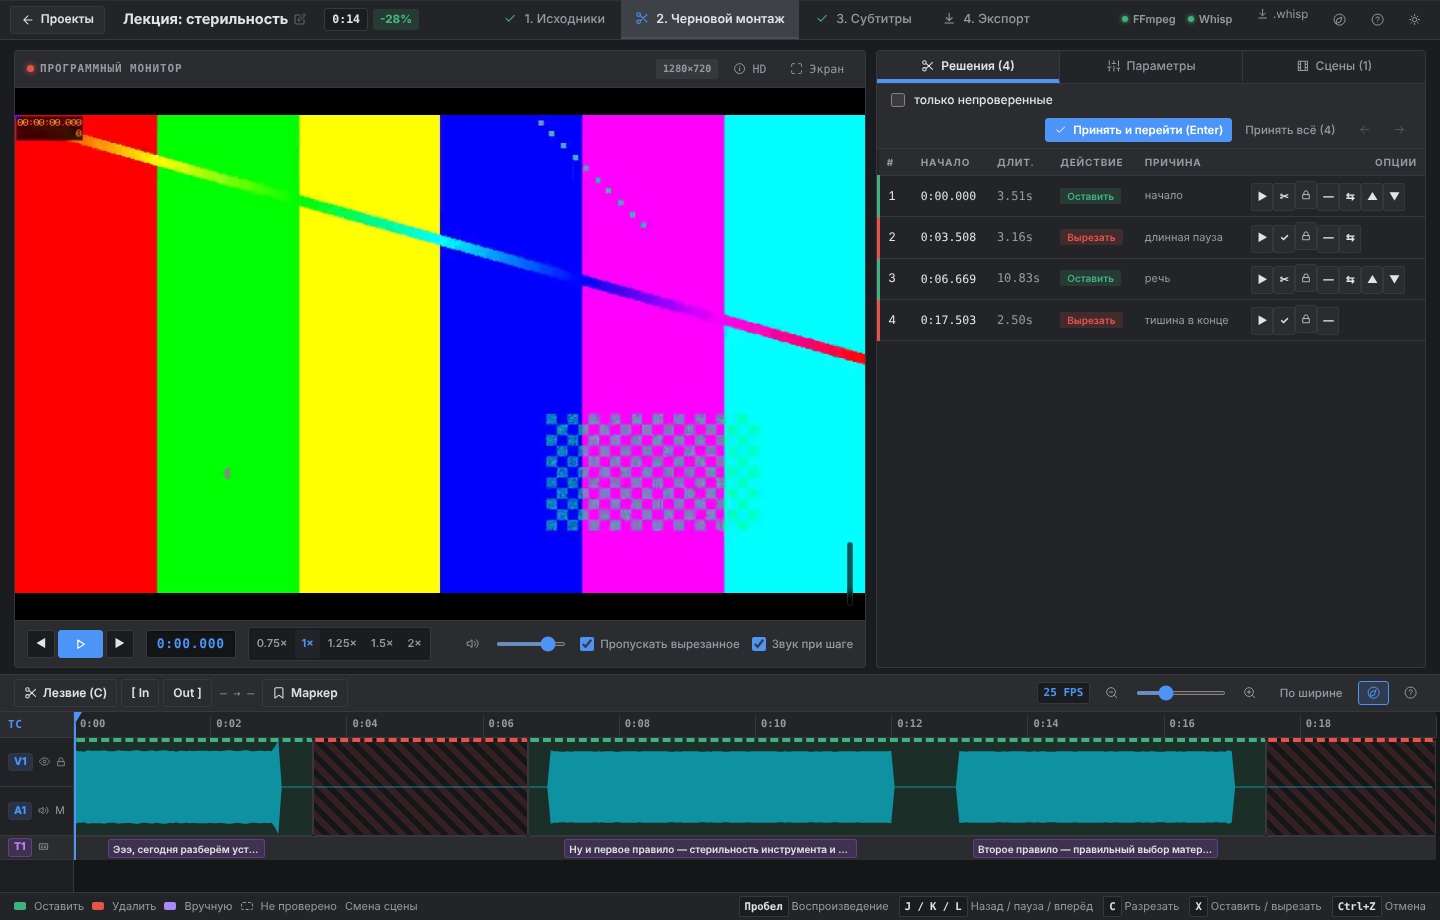
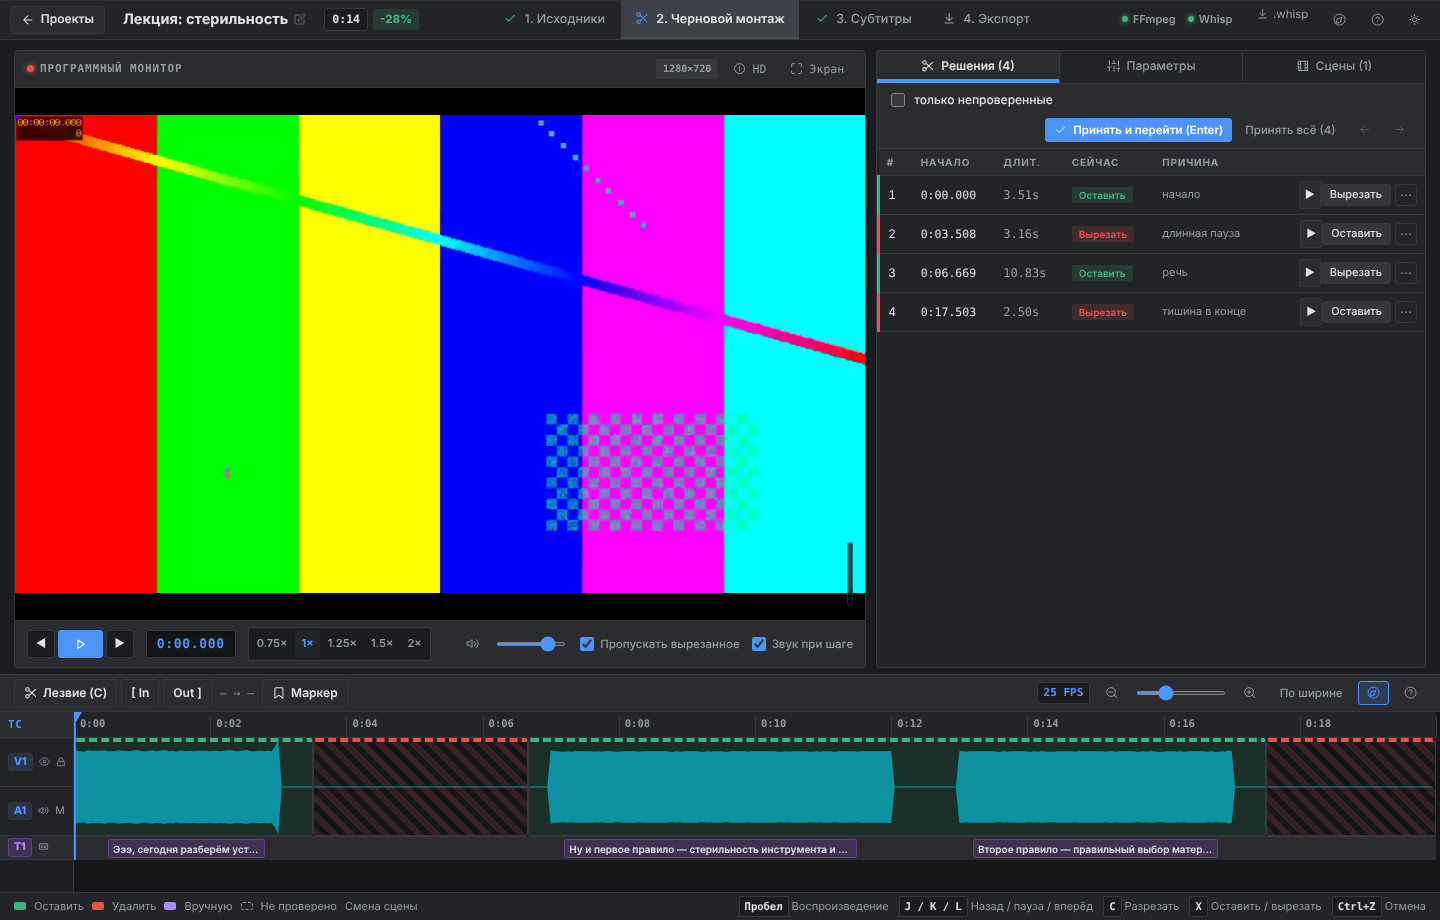
UI: проще и понятнее: экспорт с одной главной кнопкой, одна модель Whisp на виду, строки решений с подписанной кнопкой и меню «…»
Claude-Session: https://claude.ai/code/session_01DF561mnDsFx3onGChxrfzS

diff --git a/frontend/src/components/ExportPanel.tsx b/frontend/src/components/ExportPanel.tsx
@@ -280,7 +280,7 @@ export default function ExportPanel({ pid, project, payload, busy, onJob, onPayl
         <section className="card">
           <div className="card-title">
             <span className="num"><Icon name="film" /></span>
-            <h2>{t("export.render_mp4")}</h2>
+            <h2>{lang === "ru" ? "Готовое видео" : "Final video"}</h2>
           </div>
           <p className="muted">
             {lang === "ru"
@@ -293,36 +293,10 @@ export default function ExportPanel({ pid, project, payload, busy, onJob, onPayl
             )}
           </p>
 
-          <div className="row wrap" style={{ gap: 8, alignItems: "center" }}>
-            <button className="primary big" onClick={() => render("final")} disabled={busy}>
-              <Icon name="film" /> {t("export.btn_render_final")}
-            </button>
-            <button className="big" onClick={() => render("fast")} disabled={busy} title="480p preview render">
-              {t("export.btn_render_fast")}
-            </button>
-            <button
-              className="big ghost"
-              onClick={() => setShowNotesOpen(true)}
-              style={{ display: "inline-flex", alignItems: "center", gap: 6 }}
-              title={lang === "ru" ? "Сгенерировать шоу-ноуты, описание для YouTube и пост для Telegram" : "Show notes & publishing text"}
-            >
-              <Icon name="captions" /> {lang === "ru" ? "Шоу-ноуты" : "Show Notes"}
-            </button>
-          </div>
-
-          <div style={{ marginTop: 10, display: "flex", alignItems: "center", gap: 8 }}>
-            <label className="check" style={{ cursor: "pointer", display: "inline-flex", alignItems: "center", gap: 6 }}>
-              <input type="checkbox" checked={lossless} onChange={(e) => setLossless(e.target.checked)} />
-              <span style={{ fontWeight: 500, fontSize: 13 }}>
-                {lang === "ru" ? "Lossless экспорт (Stream Copy) — мгновенно за 2–3 сек без перекодирования" : "Lossless Export (Stream Copy) — instant 2–3s without re-encoding"}
-              </span>
-            </label>
-          </div>
-
           {/* Пресеты экспорта в 1 клик */}
           <div style={{ marginTop: 14, marginBottom: 10 }}>
             <span className="muted small" style={{ display: "block", marginBottom: 8, fontWeight: 500 }}>
-              {lang === "ru" ? "Готовые пресеты для соцсетей и стримингов:" : "1-Click Export Presets:"}
+              {lang === "ru" ? "Куда публикуете? Выберите — настройки подставятся сами:" : "Where to publish? Pick one to fill in the settings:"}
             </span>
             <div style={{ display: "grid", gridTemplateColumns: "repeat(auto-fit, minmax(130px, 1fr))", gap: 8 }}>
               <button
@@ -376,9 +350,35 @@ export default function ExportPanel({ pid, project, payload, busy, onJob, onPayl
             </div>
           </div>
 
+          <div className="export-main">
+            <button className="primary big" onClick={() => render("final")} disabled={busy}>
+              <Icon name="film" /> {lang === "ru" ? "Собрать видео" : "Render video"}
+            </button>
+            <button className="ghost" onClick={() => render("fast")} disabled={busy} title="480p">
+              {lang === "ru" ? "Быстрый тест (480p)" : "Quick test (480p)"}
+            </button>
+          </div>
           {error && <p className="error">{error}</p>}
           {msg && <p className="ok">{msg}</p>}
 
+          <details className="more">
+            <summary>{lang === "ru" ? "Дополнительно: качество, звук, субтитры" : "More: quality, audio, captions"}</summary>
+          <div style={{ marginTop: 10, display: "flex", alignItems: "center", gap: 8 }}>
+            <label className="check" style={{ cursor: "pointer", display: "inline-flex", alignItems: "center", gap: 6 }}>
+              <input type="checkbox" checked={lossless} onChange={(e) => setLossless(e.target.checked)} />
+              <span style={{ fontWeight: 500, fontSize: 13 }}>
+                {lang === "ru" ? "Lossless экспорт (Stream Copy) — мгновенно за 2–3 сек без перекодирования" : "Lossless Export (Stream Copy) — instant 2–3s without re-encoding"}
+              </span>
+            </label>
+          </div>
+
+            <button
+              className="ghost"
+              onClick={() => setShowNotesOpen(true)}
+              title={lang === "ru" ? "Сгенерировать шоу-ноуты, описание для YouTube и пост для Telegram" : "Show notes & publishing text"}
+            >
+              <Icon name="captions" /> {lang === "ru" ? "Шоу-ноуты и описание для публикации" : "Show Notes"}
+            </button>
           <div className="rset">
             <div className="ptabs" role="tablist">
               <button role="tab" aria-selected={rset === "video"} className={rset === "video" ? "active" : ""} onClick={() => setRset("video")}>{lang === "ru" ? "Видео" : "Video"}</button>
@@ -593,6 +593,7 @@ export default function ExportPanel({ pid, project, payload, busy, onJob, onPayl
             </>)}
             </div>
           </div>
+          </details>
         </section>
 
         {/* Экспортированные файлы */}
@@ -690,11 +691,7 @@ export default function ExportPanel({ pid, project, payload, busy, onJob, onPayl
           </div>
 
           {/* Инструкция по импорту файлов в NLE */}
-          <div className="nle-help-box">
-            <b style={{ display: "flex", alignItems: "center", gap: 8, fontSize: 13.5 }}>
-              <Icon name="lightbulb" style={{ color: "var(--accent)" }} />
-              {t("export.nle_help.title")}
-            </b>
+          <details className="more nle-help-box"><summary>{t("export.nle_help.title")}</summary>
             <div className="nle-help-grid">
               <div className="nle-help-item">
                 <b>Adobe Premiere Pro</b>
@@ -709,7 +706,7 @@ export default function ExportPanel({ pid, project, payload, busy, onJob, onPayl
                 <p>{t("export.nle_help.fcpx")}</p>
               </div>
             </div>
-          </div>
+          </details>
 
           <details className="more" style={{ marginTop: 8 }}>
             <summary>{lang === "ru" ? "Выбрать отдельные форматы для экспорта" : "Customize Export Formats"}</summary>

diff --git a/frontend/src/components/Editor.tsx b/frontend/src/components/Editor.tsx
@@ -777,9 +777,9 @@ export default function Editor({ pid, project, payload, onPayload, scenes, wave,
                       <th style={{ width: 34 }}>#</th>
                       <th>{lang === "ru" ? "Начало" : "Start"}</th>
                       <th>{lang === "ru" ? "Длит." : "Dur."}</th>
-                      <th>{lang === "ru" ? "Действие" : "Action"}</th>
+                      <th>{lang === "ru" ? "Сейчас" : "Now"}</th>
                       <th>{lang === "ru" ? "Причина" : "Reason"}</th>
-                      <th style={{ textAlign: "right" }}>{lang === "ru" ? "Опции" : "Controls"}</th>
+                      <th style={{ textAlign: "right" }}> </th>
                     </tr>
                   </thead>
                   <tbody>
@@ -804,47 +804,36 @@ export default function Editor({ pid, project, payload, onPayload, scenes, wave,
                           </td>
                           <td className="reason-cell">{REASONS[s.reason] ?? s.reason}</td>
                           <td className="actions" onClick={(e) => e.stopPropagation()}>
-                            <button className="nle-btn-micro" title="Play" onClick={() => playRange(s.source_start_ms, s.source_end_ms)}>▶</button>
+                            <button className="nle-btn-micro" title={lang === "ru" ? "Прослушать" : "Play"} onClick={() => playRange(s.source_start_ms, s.source_end_ms)}>▶</button>
                             <button
-                              className="nle-btn-micro"
+                              className="nle-btn-text"
                               disabled={busy}
-                              title={s.action === "KEEP" ? (lang === "ru" ? "Вырезать" : "Cut") : (lang === "ru" ? "Оставить" : "Keep")}
                               onClick={() => run({ op: "set_action", id: s.id, action: s.action === "KEEP" ? "CUT" : "KEEP" })}
                             >
-                              {s.action === "KEEP" ? "✂" : "✓"}
+                              {s.action === "KEEP" ? (lang === "ru" ? "Вырезать" : "Cut") : (lang === "ru" ? "Оставить" : "Keep")}
                             </button>
-                            <button
-                              className="nle-btn-micro"
-                              disabled={busy}
-                              title={s.locked ? "Unlock" : "Lock"}
-                              onClick={() => run({ op: "lock", id: s.id, locked: !s.locked })}
-                            >
-                              <Icon name={s.locked ? "unlock" : "lock"} style={{ width: 10, height: 10 }} />
-                            </button>
-                            <button
-                              className="nle-btn-micro"
-                              disabled={busy}
-                              title="Reviewed toggle"
-                              onClick={() => run({ op: "review", ids: [s.id], reviewed: !s.reviewed })}
-                            >
-                              {s.reviewed ? "✓" : "—"}
-                            </button>
-                            {next && (
-                              <button
-                                className="nle-btn-micro"
-                                disabled={busy}
-                                title="Merge with next"
-                                onClick={() => run({ op: "merge", id: s.id, second_id: next.id, action: s.action })}
-                              >
-                                ⇆
-                              </button>
-                            )}
-                            {s.action === "KEEP" && (
-                              <>
-                                <button className="nle-btn-micro" disabled={busy} title="Move up" onClick={() => moveSequence(s.id, "up")}>▲</button>
-                                <button className="nle-btn-micro" disabled={busy} title="Move down" onClick={() => moveSequence(s.id, "down")}>▼</button>
-                              </>
-                            )}
+                            <details className="row-menu">
+                              <summary title={lang === "ru" ? "Ещё действия" : "More"}>⋯</summary>
+                              <div className="row-menu-pop">
+                                <button disabled={busy} onClick={() => run({ op: "lock", id: s.id, locked: !s.locked })}>
+                                  {s.locked ? (lang === "ru" ? "Разблокировать" : "Unlock") : (lang === "ru" ? "Защитить от изменений" : "Lock")}
+                                </button>
+                                <button disabled={busy} onClick={() => run({ op: "review", ids: [s.id], reviewed: !s.reviewed })}>
+                                  {s.reviewed ? (lang === "ru" ? "Снять отметку «проверено»" : "Unmark reviewed") : (lang === "ru" ? "Отметить проверенным" : "Mark reviewed")}
+                                </button>
+                                {next && (
+                                  <button disabled={busy} onClick={() => run({ op: "merge", id: s.id, second_id: next.id, action: s.action })}>
+                                    {lang === "ru" ? "Объединить со следующим" : "Merge with next"}
+                                  </button>
+                                )}
+                                {s.action === "KEEP" && (
+                                  <>
+                                    <button disabled={busy} onClick={() => moveSequence(s.id, "up")}>{lang === "ru" ? "Переместить выше" : "Move up"}</button>
+                                    <button disabled={busy} onClick={() => moveSequence(s.id, "down")}>{lang === "ru" ? "Переместить ниже" : "Move down"}</button>
+                                  </>
+                                )}
+                              </div>
+                            </details>
                           </td>
                         </tr>
                       );

diff --git a/frontend/src/styles.css b/frontend/src/styles.css
@@ -1744,3 +1744,29 @@ button.small { min-height: 24px; }
 .nle-inspector-tabs .nle-insp-tab:last-child { border-right: none; }
 .nle-inspector-tabs .nle-insp-tab:hover { background: var(--panel2); color: var(--text); }
 .nle-inspector-tabs .nle-insp-tab.active { background: var(--panel2); color: var(--text); font-weight: 600; border-bottom-color: var(--accent); }
+
+/* Экспорт: одна главная кнопка, остальное спрятано */
+.export-main { display: flex; align-items: center; gap: 10px; margin: 14px 0 10px; }
+.export-main .primary.big { min-width: 220px; height: 40px; font-size: 14px; }
+.nle-card p { display: none; }
+.nle-card { padding: 10px 12px; }
+.nle-grid { grid-template-columns: repeat(auto-fill, minmax(190px, 1fr)); gap: 8px; }
+details.nle-help-box { margin-top: 10px !important; padding: 0; }
+details.nle-help-box .nle-help-grid { padding: 8px 12px 12px; }
+details.more > .row, details.more > .check { margin-top: 8px; }
+
+/* Строка решения: прослушать, вырезать/оставить текстом, остальное в меню «…» */
+.nle-btn-text { height: 22px; min-height: 22px; padding: 0 8px; font-size: 11px; border: 1px solid var(--line); background: var(--raised); color: var(--text); border-radius: 3px; }
+.nle-btn-text:hover { border-color: var(--accent); }
+td.actions { white-space: nowrap; text-align: right; }
+td.actions > * { vertical-align: middle; }
+.row-menu { position: relative; display: inline-block; margin-left: 4px; }
+.row-menu > summary { list-style: none; cursor: pointer; width: 22px; height: 22px; line-height: 20px; text-align: center; border-radius: 3px; border: 1px solid var(--line); color: var(--muted); user-select: none; }
+.row-menu > summary::-webkit-details-marker { display: none; }
+.row-menu[open] > summary, .row-menu > summary:hover { color: var(--text); background: var(--raised); }
+.row-menu-pop { position: absolute; right: 0; top: 26px; z-index: 20; min-width: 190px; background: var(--panel2); border: 1px solid var(--line); border-radius: 4px; padding: 4px; display: flex; flex-direction: column; box-shadow: 0 6px 20px rgba(0,0,0,.35); }
+.row-menu-pop button { height: 28px; text-align: left; border: none; background: none; color: var(--text); padding: 0 10px; border-radius: 3px; }
+.row-menu-pop button:hover { background: var(--raised); }
+.nle-grid { grid-template-columns: repeat(auto-fill, minmax(260px, 1fr)); }
+.nle-head b { font-size: 13px; white-space: nowrap; }
+.nle-head .badge { white-space: nowrap; }

diff --git a/frontend/src/components/SubtitlesPanel.tsx b/frontend/src/components/SubtitlesPanel.tsx
@@ -613,7 +613,13 @@ export default function SubtitlesPanel({ pid, project: _project, cues, busy, onJ
               : "On-device AI speech transcription. Turbo model is recommended for high accuracy and speed."}
           </p>
 
-          {wm && <ModelCards compact models={wm.models} selected={model} onSelect={setModel} onChanged={loadModels} onError={setError} />}
+          {wm && (<>
+            <ModelCards compact models={wm.models.filter((m) => m.name === model)} selected={model} onSelect={setModel} onChanged={loadModels} onError={setError} />
+            <details className="more">
+              <summary>Другие модели (точнее, но медленнее — или быстрее, но грубее)</summary>
+              <ModelCards compact models={wm.models.filter((m) => m.name !== model)} selected={model} onSelect={setModel} onChanged={loadModels} onError={setError} />
+            </details>
+          </>)}
 
           <div className="fields">
             <label>
